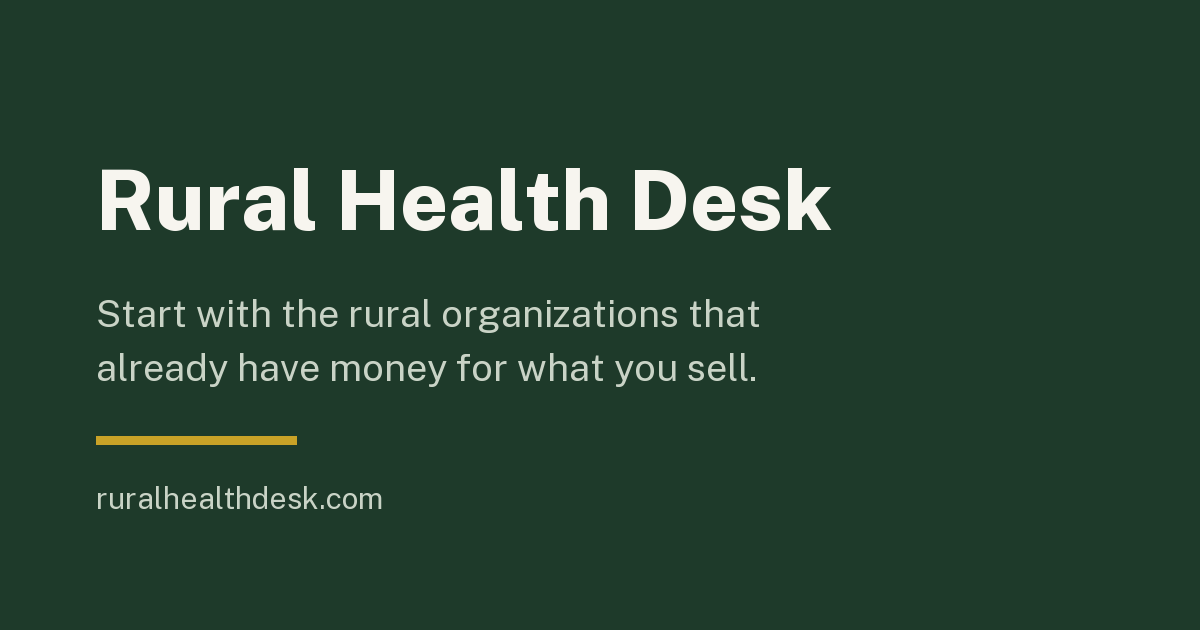
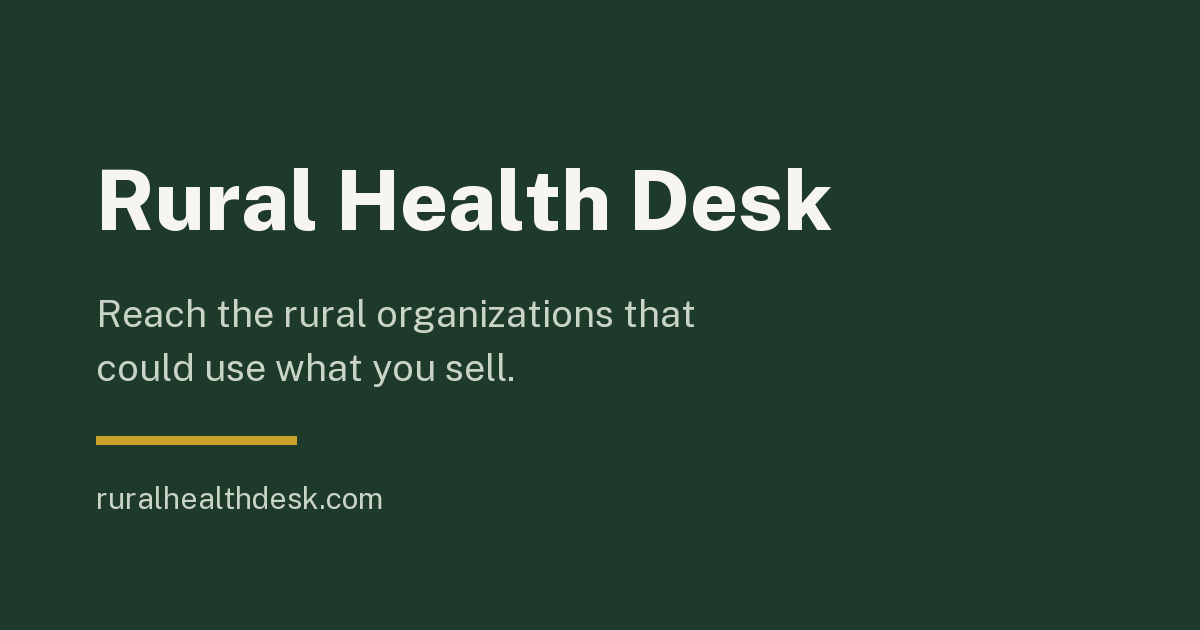
site: refresh approved Rural Health Desk page and verified counts

Changed region(s): [[0.0617, 0.4524, 0.6475, 0.5429], [0.0617, 0.573, 0.6475, 0.6032]]

diff --git a/index.html b/index.html
@@ -9,7 +9,7 @@
 <meta property="og:title" content="Rural Health Desk"><meta property="og:description" content="Justin Brilliant helps healthcare companies identify and reach rural hospitals, clinics and other organizations, with funding research from Rural Health Atlas.">
 <meta property="og:image" content="https://ruralhealthdesk.com/assets/og-card.png">
 <meta property="og:image:type" content="image/png"><meta property="og:image:width" content="1200">
-<meta property="og:image:height" content="630"><meta property="og:image:alt" content="Rural Health Desk: start with the rural organizations that already have money for what you sell.">
+<meta property="og:image:height" content="630"><meta property="og:image:alt" content="Rural Health Desk: reach the rural organizations that could use what you sell.">
 <meta name="twitter:card" content="summary_large_image">
 <link rel="preload" href="/assets/fonts/public-sans.woff2" as="font" type="font/woff2" crossorigin>
 <link rel="preload" href="/assets/fonts/literata-400.woff2" as="font" type="font/woff2" crossorigin>
@@ -146,13 +146,13 @@ img{display:block;max-width:100%;height:auto}
 <div class="hero-grid"><div class="hero-copy">
 <p class="scope-label">Rural health research &amp; outreach</p>
 <h1 id="hero-title">Reach the rural organizations that could use <span>what you sell.</span></h1>
-<p class="hero-intro">I’m Justin Brilliant. I help healthcare companies identify rural hospitals and clinics to approach, research decision makers, and handle outreach and follow-ups.</p>
+<p class="hero-intro">I’m Justin Brilliant. I track the CMS Rural Health Transformation Program and help healthcare companies find relevant rural hospitals, clinics and decision makers to approach.</p>
 <div class="hero-actions"><a class="button button-wheat" href="mailto:justin@ruralhealthdesk.com?subject=Reaching%20rural%20health%20organizations">Tell me what you sell</a><p>I answer the same day.</p></div>
 <p class="hero-service">Personal business development &amp; grant strategy</p>
 </div>
 <aside class="award-note" aria-labelledby="award-note-title">
 <div class="note-top"><p>One row from the Atlas</p><span>Kansas</span></div>
-<div class="note-body"><p class="note-type">Published award</p>
+<div class="note-body"><p class="note-type">A CMS RHTP award</p>
 <h2 id="award-note-title">Gove County Medical Center</h2>
 <p class="award-amount">$3,000,000</p>
 <blockquote>Replacement of an unreliable mobile MRI with a permanent fixed MRI system, restoring reliable diagnostic imaging access for this 21-bed critical access hospital (CAH) in western Kansas.</blockquote>
@@ -165,7 +165,7 @@ img{display:block;max-width:100%;height:auto}
 <section class="atlas-section" id="atlas" aria-labelledby="atlas-title"><div class="shell">
 <div class="section-intro"><p class="section-label">Rural Health Atlas</p><div>
 <h2 id="atlas-title">The research behind<br>the outreach.</h2>
-<p>The Atlas holds organization records, healthcare vendor information and published awards. I track the CMS Rural Health Transformation Program across all fifty states and assess where your product may fit, with or without a grant.</p>
+<p>Rural Health Atlas is my proprietary database of rural organizations, healthcare vendors and published CMS RHTP awards. It records who received funding and what the money is for. Through Rural Health Desk, I put that research to work through outreach, follow-ups and grant strategy. I also help companies pursue rural opportunities beyond grants.</p>
 </div></div>
 <dl class="metrics">
 <div><dt>50</dt><dd>states tracked</dd></div>
@@ -173,7 +173,7 @@ img{display:block;max-width:100%;height:auto}
 <div><dt>1,050+</dt><dd>healthcare vendors</dd></div>
 <div><dt>1,800+</dt><dd>funded award records</dd></div>
 </dl>
-<p class="data-caption">From Rural Health Atlas. Latest award-source capture: <time datetime="2026-09-05">September 5, 2026</time>.</p>
+<p class="data-caption">From Rural Health Atlas. Counts checked: <time datetime="2026-09-09">September 9, 2026</time>. Latest award-source capture: <time datetime="2026-09-05">September 5, 2026</time>.</p>
 </div></section>
 
 <section class="desk-section" id="desk" aria-labelledby="desk-title"><div class="shell desk-layout">
@@ -189,6 +189,7 @@ img{display:block;max-width:100%;height:auto}
 <section class="about-section" id="about" aria-labelledby="about-title"><div class="shell about-grid">
 <figure class="portrait"><img src="/assets/justin.jpg" srcset="/assets/justin-small.jpg 440w, /assets/justin.jpg 880w" sizes="(max-width:760px) calc(100vw - 48px), 420px" alt="Justin Brilliant, founder of Rural Health Desk" width="880" height="899" loading="lazy" decoding="async"><figcaption><span>Justin Brilliant</span><span>Founder, Rural Health Desk</span></figcaption></figure>
 <div class="about-copy"><p class="section-label">About Justin</p><h2 id="about-title">I built the Atlas because<br> I needed the answer, too.</h2>
+<p>I believe rural Americans deserve better access to quality healthcare. I help connect rural health organizations with healthcare companies whose technology and services can help them deliver it.</p>
 <p>I started this work while helping a health-tech company figure out where it fit in the Rural Health Transformation Program. It was confusing. The information was spread across state plans, award documents, spreadsheets and procurement pages, and I never found one place that had all of it.</p>
 <p>So I read them, and I compiled everything I found into one database. That database became Rural Health Atlas, and the whole thing has turned into my full-time job.</p>
 <p>That work grew beyond grants. Through Rural Health Desk, I help healthcare companies find and reach rural organizations that could use what they offer.</p>

diff --git a/404.html b/404.html
@@ -9,7 +9,7 @@
 <meta property="og:title" content="Rural Health Desk"><meta property="og:description" content="Find Rural Health Desk and contact Justin Brilliant.">
 <meta property="og:image" content="https://ruralhealthdesk.com/assets/og-card.png">
 <meta property="og:image:type" content="image/png"><meta property="og:image:width" content="1200">
-<meta property="og:image:height" content="630"><meta property="og:image:alt" content="Rural Health Desk: start with the rural organizations that already have money for what you sell.">
+<meta property="og:image:height" content="630"><meta property="og:image:alt" content="Rural Health Desk: reach the rural organizations that could use what you sell.">
 <meta name="twitter:card" content="summary_large_image">
 <link rel="preload" href="/assets/fonts/public-sans.woff2" as="font" type="font/woff2" crossorigin>
 <link rel="preload" href="/assets/fonts/literata-400.woff2" as="font" type="font/woff2" crossorigin>
